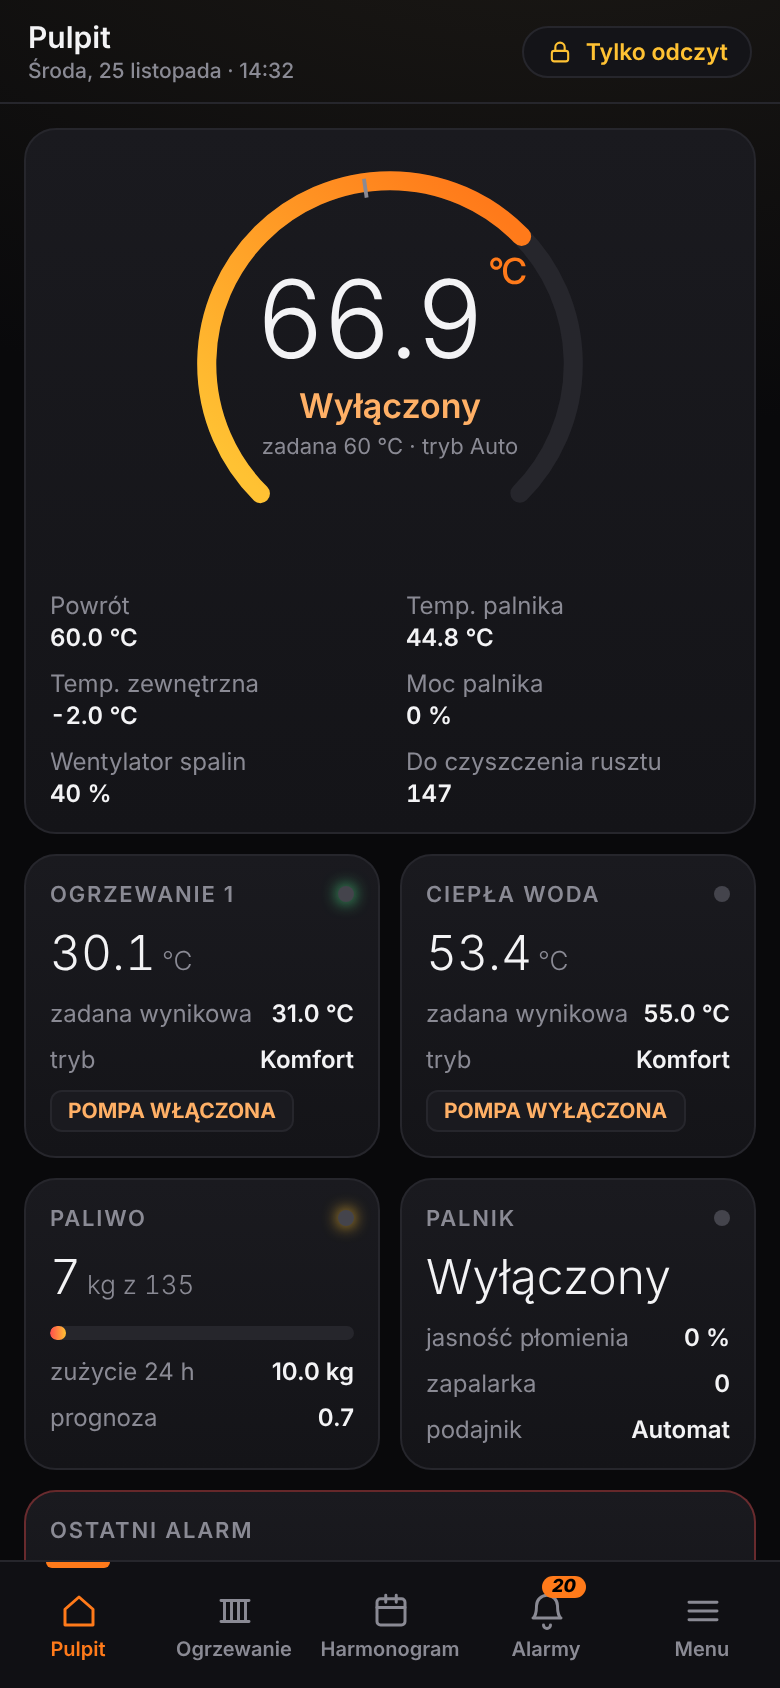
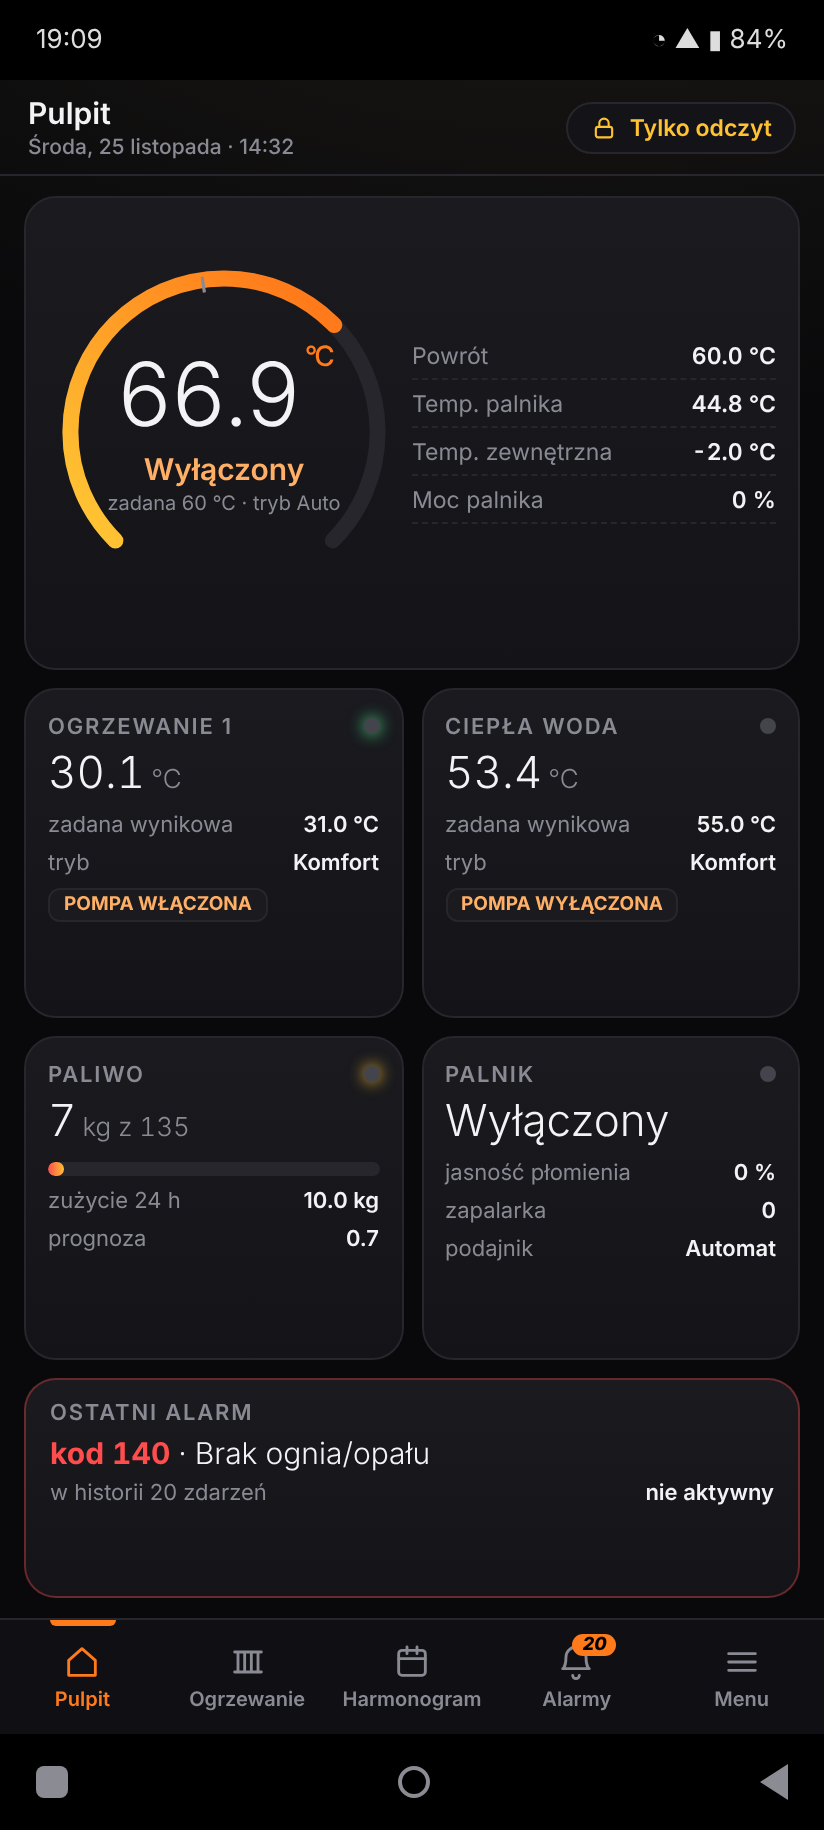
ui/mockups: bezpieczne marginesy (pasek stanu i nawigacji), Pulpit bez przewijania; docs/UI_ZASADY.md
Claude-Session: https://claude.ai/code/session_01MDoNmw85DRH9RW1bh5MAMZ

diff --git a/ui/mockups/main_page.html b/ui/mockups/main_page.html
@@ -70,8 +70,30 @@ body.min .card{background:var(--panel);box-shadow:0 1px 2px rgba(0,0,0,.05)}
  .sheet .g svg{width:22px;height:22px;stroke:var(--acc);fill:none;stroke-width:1.7;stroke-linecap:round;stroke-linejoin:round}
  .sheet .lv{font-size:10px;color:var(--mut);text-transform:uppercase;letter-spacing:.9px;margin:12px 2px 8px}
 }
+
+/* --- poprawka: nic nie jest zasloniete. Strona zyje WEWNATRZ bezpiecznych marginesow (pasek stanu u gory, pasek nawigacji systemu na dole); caly Pulpit miesci sie bez przewijania --- */
+.sys{display:none}
+@media (max-width:600px){
+ body.frame{padding-top:40px;padding-bottom:48px;height:100vh}
+ body.frame .sys{display:flex;position:fixed;left:0;right:0;background:#000;color:#ddd;align-items:center;justify-content:space-between;padding:0 18px;z-index:9;font-size:13px}
+ body.frame .sys.top{top:0;height:40px}.sys.bot{bottom:0;height:48px;justify-content:space-around;padding:0 70px}
+ .sys.bot i{width:16px;height:16px;border-radius:4px;background:#8b8b93;display:block}.sys.bot i:nth-child(2){border-radius:50%;background:none;border:2px solid #8b8b93}.sys.bot i:nth-child(3){background:none;width:0;height:0;border-radius:0;border-style:solid;border-width:9px 14px 9px 0;border-color:transparent #8b8b93 transparent transparent}
+ body{grid-template-rows:48px minmax(0,1fr) 58px}
+ main{overflow:hidden;align-content:stretch;grid-template-rows:auto auto auto auto;gap:9px;padding:10px 12px}
+ .hero{grid-column:span 2;grid-template-columns:176px 1fr;justify-items:stretch;gap:6px;padding:10px 12px}
+ .gauge,.gauge svg{width:176px;height:176px}.big{font-size:44px}.big sup{font-size:14px;top:-14px}.st{font-size:15px}.hint{font-size:10px}
+ .kv{grid-template-columns:1fr;gap:5px}.kv div{flex-direction:row;font-size:11.5px;padding-bottom:4px;border-bottom:1px dashed var(--line);white-space:nowrap}
+ .kv div:nth-child(n+5){display:none}
+ .card{padding:11px}.val{font-size:22px;margin-top:4px}.row{margin-top:5px;font-size:11px}.pill{margin-top:6px;font-size:9.5px;padding:2px 7px}.bar{margin-top:7px}
+ main>.card:nth-of-type(n+7){display:block}
+ .alarm.wide{padding:9px 12px}.alarm .val{font-size:15px!important;margin-top:4px!important}.alarm .row{margin-top:3px}
+ main>.card:last-of-type{display:none}
+ .tabs{height:58px}.tabs a svg{width:20px;height:20px}
+ body.menu .sheet{bottom:58px;top:48px}
+}
 </style></head>
 <body>
+<div class="sys top"><span>19:09</span><span>◔ ▲ ▮ 84%</span></div><div class="sys bot"><i></i><i></i><i></i></div>
 <nav>
  <div class="brand"><i></i><div>TeklaPellet<small>Bio Compact 10kW</small></div></div>
  <a class="on" href="#"><svg viewBox="0 0 24 24"><path d="M4 11l8-7 8 7v9H4z"/></svg><span>Pulpit</span></a>
@@ -128,5 +150,5 @@ body.min .card{background:var(--panel);box-shadow:0 1px 2px rgba(0,0,0,.05)}
  <a href="#"><svg viewBox="0 0 24 24"><circle cx="12" cy="12" r="9"/><path d="M12 8v5M12 16h.01"/></svg>Informacje</a>
 </div></div></div>
 </body>
-<script>const h=location.hash;if(h.includes('min'))document.body.classList.add('min');if(h.includes('menu'))document.body.classList.add('menu')</script>
+<script>const h=location.hash;if(h.includes('min'))document.body.classList.add('min');if(h.includes('menu'))document.body.classList.add('menu');if(h.includes('frame'))document.body.classList.add('frame')</script>
 </html>

diff --git a/docs/UI_ZASADY.md b/docs/UI_ZASADY.md
@@ -1,0 +1,8 @@
+# Zasady interfejsu (WWW i Android)
+
+1. **Nic nie jest zasłaniane.** Interfejs działa wyłącznie wewnątrz bezpiecznego obszaru ekranu: pasek stanu u góry i pasek nawigacji systemu na dole (także trzyprzyciskowy, ok. 48 dp) nie zakrywają ani nagłówka, ani dolnych zakładek, ani ostatniej karty.
+   - Android (Compose): `enableEdgeToEdge()` + `WindowInsets.systemBars` / `safeDrawing` jako padding całego ekranu (także `displayCutout` w poziomie).
+   - WWW: `viewport-fit=cover` + `env(safe-area-inset-*)` i wysokość z `visualViewport`/`100dvh`, nie `100vh`.
+2. **Pulpit w pionie mieści się bez przewijania** na ekranie ok. 412×915 dp po odjęciu pasków systemowych (sprawdzone w makiecie `ui/mockups/main_page.html`, hash `#frame`). Pozostałe ekrany mogą się przewijać, ale dolny pasek zakładek zawsze jest nad paskiem systemowym.
+3. **Poziomo**: tryb pełnoekranowy z uwzględnieniem pasków systemowych i wycięcia (cutout); nawigacja zwężona do ikon.
+4. Motywy: domyślny ciemny czarno-pomarańczowy, drugi jasny minimalistyczny; kolory ze zmiennych (CSS / tokeny Compose).
